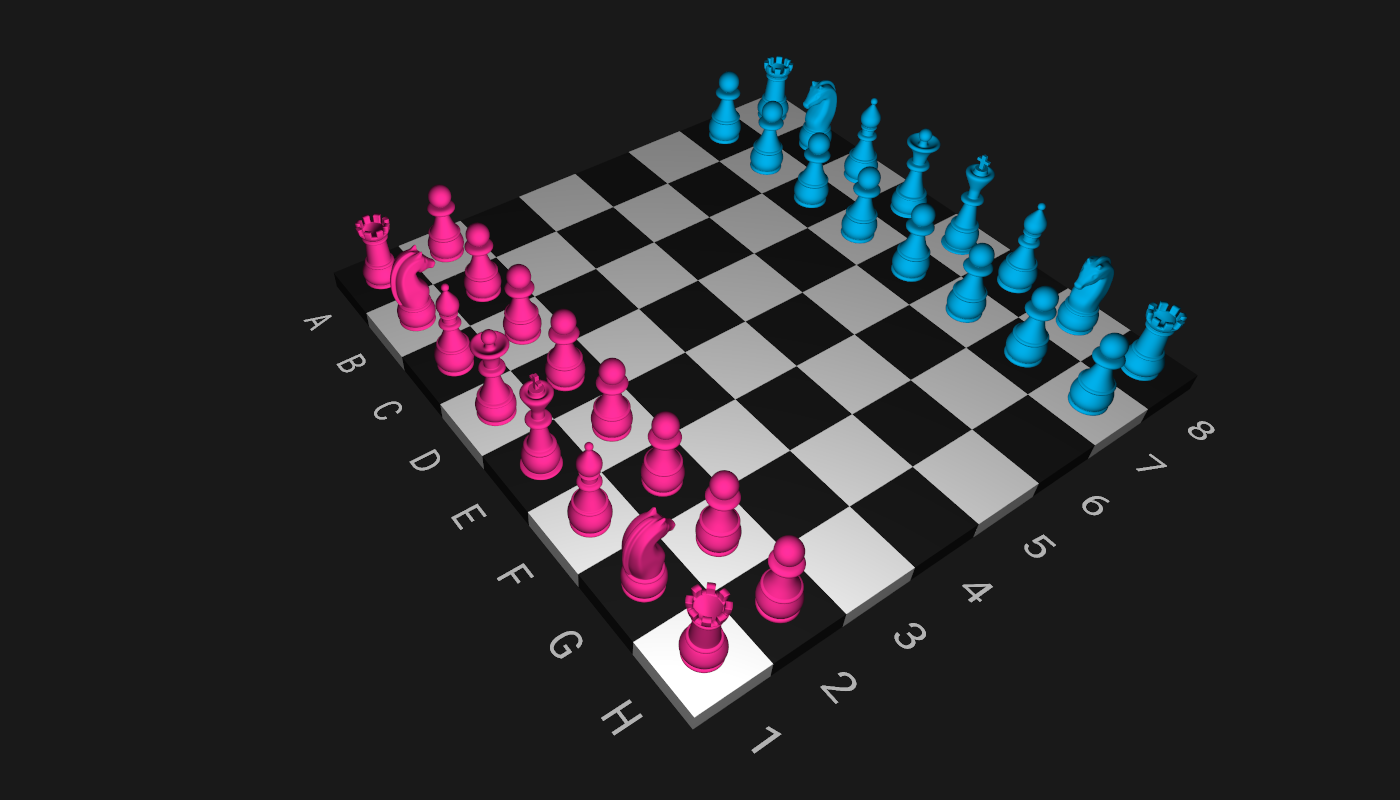
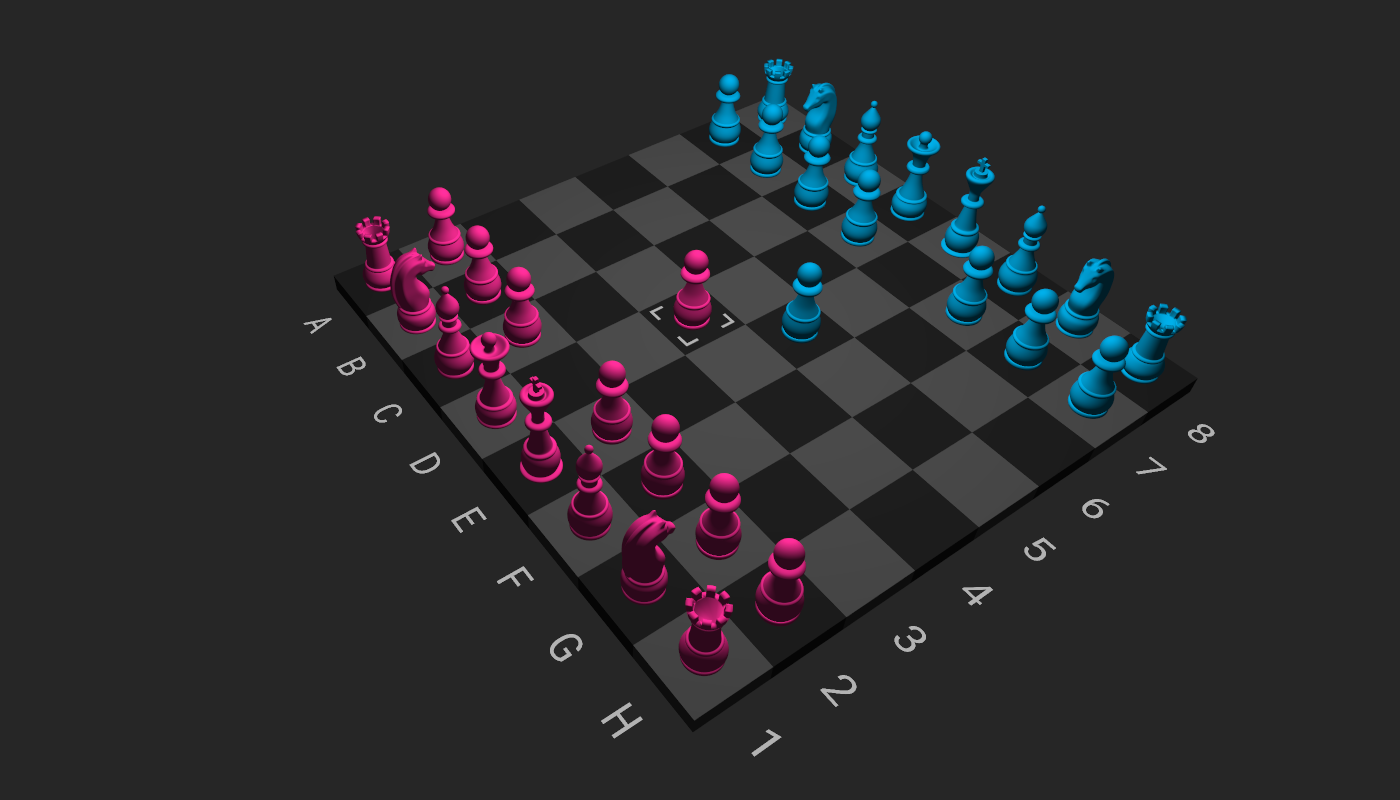
Make board tiles selectable

diff --git a/chess_game/source/board.cpp b/chess_game/source/board.cpp
@@ -20,7 +20,7 @@ auto build_checkerboard(glm::vec3 tile_size, const apeiron::opengl::Cuboid* whit
 
   int flip = 0;
   for (std::size_t i=0; i<64; ++i) {
-    checkerboard.emplace_back(i, ++flip % 2 ? white : black);
+    checkerboard.emplace_back(i, ++flip % 2 ? black : white);
     checkerboard.back().set_position(x, y, z);
     checkerboard.back().set_size(tile_size);
     checkerboard.back().set_intersection_radius(tile_size.y * 1.5f);
@@ -36,15 +36,83 @@ auto build_checkerboard(glm::vec3 tile_size, const apeiron::opengl::Cuboid* whit
 }
 
 
+std::vector<apeiron::engine::Vertex_simple> build_highlight(glm::vec3 tile_size, float height)
+{
+  auto s = tile_size.x * 0.4f;
+  auto thickness = tile_size.x * 0.04f;
+  auto length = tile_size.x * 0.2f;
+
+  return {
+    // Top left
+    {-s,          height, -s + thickness},
+    {-s + length, height, -s + thickness},
+    {-s + length, height, -s},
+    {-s + length, height, -s},
+    {-s,          height, -s},
+    {-s,          height, -s + thickness},
+    // Top right
+    {s - length, height, -s + thickness},
+    {s,          height, -s + thickness},
+    {s,          height, -s},
+    {s,          height, -s},
+    {s - length, height, -s},
+    {s - length, height, -s + thickness},
+    // Bottom left
+    {s - length, height, s},
+    {s,          height, s},
+    {s,          height, s - thickness},
+    {s,          height, s - thickness},
+    {s - length, height, s - thickness},
+    {s - length, height, s},
+    // Bottom right
+    {-s,          height, s},
+    {-s + length, height, s},
+    {-s + length, height, s - thickness},
+    {-s + length, height, s - thickness},
+    {-s,          height, s - thickness},
+    {-s,          height, s},
+    // Left top
+    {-s + thickness, height, -s + thickness},
+    {-s,             height, -s + thickness},
+    {-s,             height, -s + length},
+    {-s,             height, -s + length},
+    {-s + thickness, height, -s + length},
+    {-s + thickness, height, -s + thickness},
+    // Left bottom
+    {-s + thickness, height, s - length},
+    {-s,             height, s - length},
+    {-s,             height, s - thickness},
+    {-s,             height, s - thickness},
+    {-s + thickness, height, s - thickness},
+    {-s + thickness, height, s - length},
+    // Right top
+    {s,             height, -s + thickness},
+    {s - thickness, height, -s + thickness},
+    {s - thickness, height, -s + length},
+    {s - thickness, height, -s + length},
+    {s,             height, -s + length},
+    {s,             height, -s + thickness},
+    // Right bottom
+    {s,             height, s - length},
+    {s - thickness, height, s - length},
+    {s - thickness, height, s - thickness},
+    {s - thickness, height, s - thickness},
+    {s,             height, s - thickness},
+    {s,             height, s - length}
+  };
+}
+
+
 }  // namespace
 
 
 example::chess::Board::Board(glm::vec3 size) : board_size_{size},
     tile_size_{size.x / 8, size.y, size.z / 8},
     charset_{16, 8, 32, 0.5f, 1.0f},
-    white_{tile_size_, {0.9f, 0.9f, 0.9f, 1.0f}},
+    white_{tile_size_, {0.25f, 0.25f, 0.25f, 1.0f}},
     black_{tile_size_, {0.1f, 0.1f, 0.1f, 1.0f}},
-    tiles_{build_checkerboard(tile_size_, &white_, &black_)}
+    tiles_{build_checkerboard(tile_size_, &white_, &black_)},
+    tile_highlight_{build_highlight(tile_size_, size.y / 2.0f + 0.025f)}
 {
   charset_.load_texture("assets/roboto_mono.png");
 
@@ -73,25 +141,54 @@ example::chess::Board::Board(glm::vec3 size) : board_size_{size},
 }
 
 
-std::optional<std::size_t> example::chess::Board::intersects(const apeiron::engine::Ray& ray)
+void example::chess::Board::set_selected(std::size_t board_index, bool b)
+{
+  if (board_index < tiles_.size())
+    tiles_[board_index].set_selected(b);
+}
+
+
+void example::chess::Board::set_allowed(std::size_t board_index, bool b)
+{
+  if (board_index < tiles_.size())
+    tiles_[board_index].set_allowed(b);
+}
+
+
+void example::chess::Board::render(apeiron::opengl::Renderer& renderer, const Options* options)
+{
+  renderer.set_lighting(options->lighting);
+  renderer.use_vertex_color_shading();
+
+  for (const auto& tile : tiles_) {
+    renderer.render(tile);
+    tile_highlight_.set_position(tile.position());
+  }
+
+  renderer.set_lighting(false);
+  renderer.use_color_shading();
+
+  for (const auto& tile : tiles_) {
+    if (tile.selected()) {
+      tile_highlight_.set_position(tile.position());
+      renderer.render(tile_highlight_, {0.7f, 0.7f, 0.7f, 1.0f});
+    }
+    else if (tile.allowed()) {
+      tile_highlight_.set_position(tile.position());
+      renderer.render(tile_highlight_, {0.1f, 0.5f, 0.1f, 1.0f});
+    }
+  }
+  for (const auto& letter : legend_) {
+    renderer.render(letter, charset_, {0.7f, 0.7f, 0.7f, 1.0f});
+  }
+}
+
+
+std::optional<std::size_t> example::chess::Board::intersects(const apeiron::engine::Ray& ray) const
 {
   for (const auto& tile : tiles_) {
     if (apeiron::engine::intersects(ray, tile))
       return tile.board_index();
   }
   return std::nullopt;
-}
-
-
-void example::chess::Board::render(apeiron::opengl::Renderer& renderer)
-{
-  renderer.use_vertex_color_shading();
-  for (const auto& tile : tiles_) {
-    renderer.render(tile);
-  }
-  renderer.set_lighting(false);
-  renderer.use_color_shading();
-  for (const auto& letter : legend_) {
-    renderer.render(letter, charset_, {0.7f, 0.7f, 0.7f, 1.0f});
-  }
 }

diff --git a/chess_game/source/game.cpp b/chess_game/source/game.cpp
@@ -31,7 +31,7 @@ example::chess::Game::Game(const Options* options)
       roboto_mono_{16, 8, 32},
       camera_{-47.0f, -145.0f, {7.5f, 10.0f, 7.5f}},
       axes_{16, 0.01f, 25.0f},
-      ground_{{32.0f, 32.0f}, 33, 33, {0.2f, 0.2f, 0.2f, 1.0f}, 1.0f},
+      ground_{{32.0f, 32.0f}, 33, 33, {0.25f, 0.25f, 0.25f, 1.0f}, 1.0f},
       light_{&bulb_},
       board_{{board_size, board_height, board_size}},
       field_{}
@@ -60,7 +60,7 @@ void example::chess::Game::init()
 
   place_pieces();
 
-  light_.set_position(5.0f, 4.5f, 5.0f);
+  light_.set_position(0.0f, 8.0f, 0.0f);
   light_.set_color(1.0f, 1.0f, 1.0f);
   renderer_.set_light_color(light_.color());
   renderer_.set_light_position(light_.position());
@@ -104,7 +104,7 @@ void example::chess::Game::render()
   }
 
   renderer_.use_vertex_color_shading();
-  board_.render(renderer_);
+  board_.render(renderer_, options_);
 
   renderer_.set_lighting(false);
 
@@ -156,13 +156,20 @@ void example::chess::Game::handle_mouse_click(int x, int y)
   if (auto index = board_.intersects(ray)) {
     if (!selected_index_ && field_[*index]) {
       selected_index_ = index;
+      board_.set_selected(*selected_index_, true);
     }
     else if (selected_index_ && *selected_index_ != *index) {
       field_[*index] = field_[*selected_index_];
       field_[*index]->set_position(as_world_position(*index));
       field_[*selected_index_] = std::nullopt;
+      board_.set_selected(*selected_index_, false);
       selected_index_ = std::nullopt;
     }
+  }
+  else {
+    if (selected_index_)
+      board_.set_selected(*selected_index_, false);
+    selected_index_ = std::nullopt;
   }
 }
 

diff --git a/chess_game/source/board.h b/chess_game/source/board.h
@@ -2,6 +2,7 @@
 #define EXAMPLE_CHESS_BOARD_H
 
 
+#include <cstddef>
 #include <array>
 #include <vector>
 #include <optional>
@@ -11,7 +12,9 @@
 #include "opengl/cuboid.h"
 #include "engine/ray.h"
 #include "engine/text.h"
+#include "options.h"
 #include "tile.h"
+#include "tile_highlight.h"
 
 
 namespace example::chess {
@@ -21,9 +24,11 @@ class Board final
 {
 public:
   Board(glm::vec3 size);
-  std::optional<std::size_t> intersects(const apeiron::engine::Ray& ray);
-  void render(apeiron::opengl::Renderer& renderer);
+  void set_selected(std::size_t board_index, bool b);
+  void set_allowed(std::size_t board_index, bool b);
+  void render(apeiron::opengl::Renderer& renderer, const Options* options);
   glm::vec3 size() const { return board_size_; }
+  std::optional<std::size_t> intersects(const apeiron::engine::Ray& ray) const;
 
 private:
   glm::vec3 board_size_;
@@ -32,6 +37,7 @@ private:
   apeiron::opengl::Cuboid white_;
   apeiron::opengl::Cuboid black_;
   std::vector<Tile> tiles_;
+  Tile_highlight tile_highlight_;
   std::array<apeiron::engine::Text, 16> legend_;
 };
 

diff --git a/chess_game/source/tile.h b/chess_game/source/tile.h
@@ -17,10 +17,16 @@ public:
   Tile(std::size_t board_index, const apeiron::opengl::Cuboid* cuboid)
       : board_index_{board_index}, cuboid_{cuboid} {}
   std::size_t board_index() const { return board_index_; }
+  void set_selected(bool b) { selected_ = b; }
+  bool selected() const { return selected_; }
+  void set_allowed(bool b) { allowed_ = b; }
+  bool allowed() const { return allowed_; }
   void render() const override { cuboid_->render(); }
 
 private:
   std::size_t board_index_ = 0;
+  bool selected_ = false;
+  bool allowed_ = false;
   const apeiron::opengl::Cuboid* cuboid_ = nullptr;
 };
 

diff --git a/chess_game/source/tile_highlight.h b/chess_game/source/tile_highlight.h
@@ -1,0 +1,28 @@
+#ifndef EXAMPLE_CHESS_TILE_HIGHLIGHT_H
+#define EXAMPLE_CHESS_TILE_HIGHLIGHT_H
+
+
+#include "engine/entity.h"
+#include "engine/vertex.h"
+#include "opengl/triangles.h"
+
+
+namespace example::chess {
+
+
+class Tile_highlight final : public apeiron::engine::Entity
+{
+public:
+  Tile_highlight(std::vector<apeiron::engine::Vertex_simple>&& vertices)
+  		: vertices_{std::move(vertices)} {}
+  void render() const override { vertices_.render(); }
+
+private:
+  apeiron::opengl::Triangles vertices_;
+};
+
+
+}  // namespace example::chess
+
+
+#endif  // EXAMPLE_CHESS_TILE_HIGHLIGHT_H

diff --git a/chess_game/source/main.cpp b/chess_game/source/main.cpp
@@ -148,7 +148,7 @@ int main([[maybe_unused]] int argc, [[maybe_unused]] char* argv[])
     glEnable(GL_BLEND);
     glEnable(GL_CULL_FACE);
     glBlendFunc(GL_SRC_ALPHA, GL_ONE_MINUS_SRC_ALPHA);
-    glClearColor(0.1f, 0.1f, 0.1f, 1.0f);
+    glClearColor(0.15f, 0.15f, 0.15f, 1.0f);
     glClear(GL_COLOR_BUFFER_BIT | GL_DEPTH_BUFFER_BIT);
 
     game.render();
